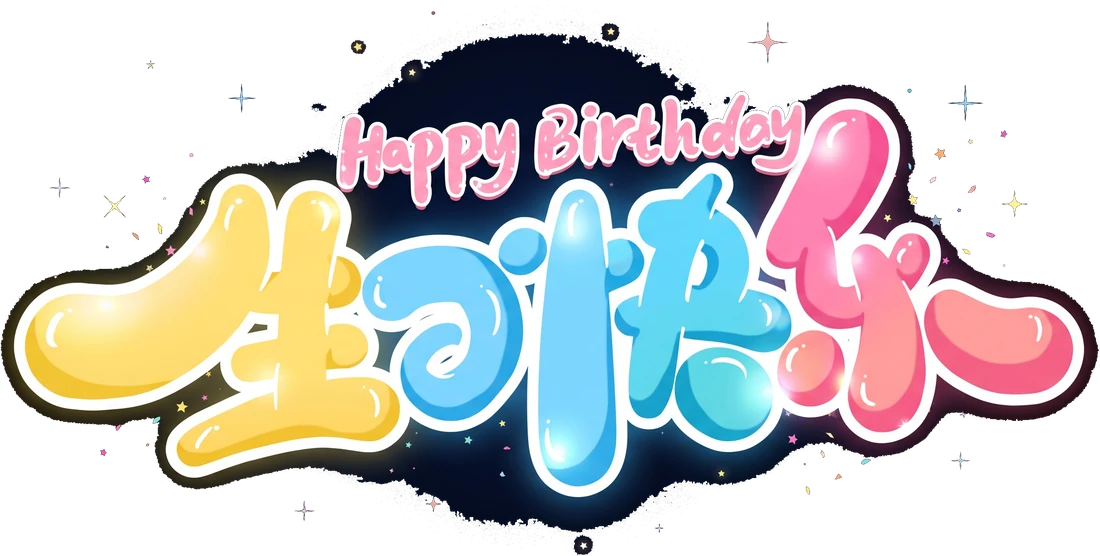
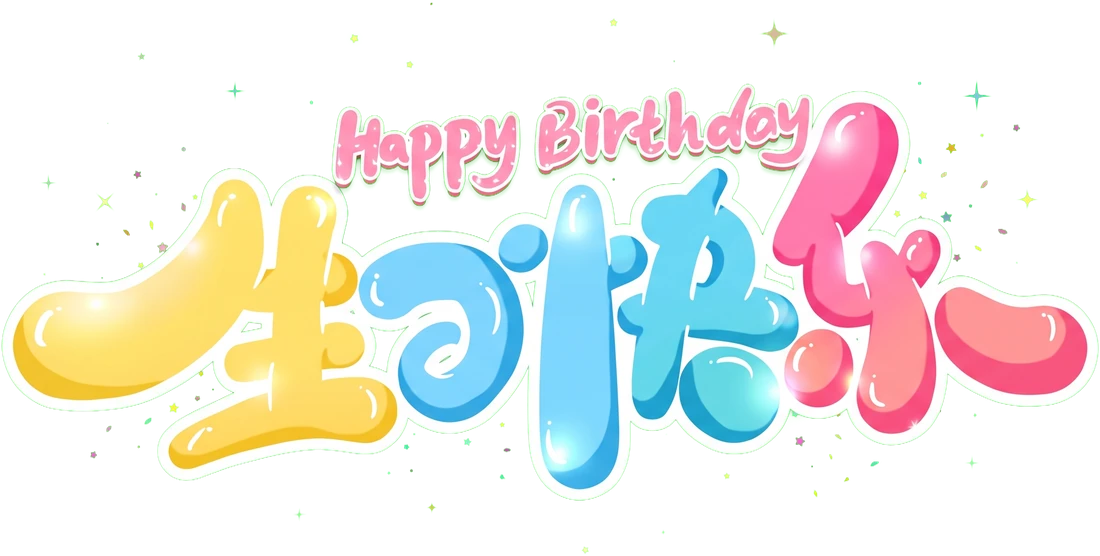
标题替换为 hb2 手绘字图，尺寸与位置保持不变

diff --git a/index.html b/index.html
@@ -427,7 +427,7 @@
           <header class="finale-head">
             <h2 class="finale-title finale-title--art">
               <img
-                src="assets/photos/hbfont-title.webp"
+                src="assets/photos/hbfont-title.webp?v=2"
                 alt="生日快乐"
                 width="1100"
                 height="556"

diff --git a/README.md b/README.md
@@ -25,7 +25,7 @@ cd "C:/Users/Administrator/Desktop/hb" && python -m http.server 5173
 - 星屑与祝词一起缓慢公转；轻触烛火 → 白烟、星屑烟花 → 贺卡浮现，再轻触蛋糕可重新点亮。
 - 手机竖屏下蛋糕约占屏宽 2/3，提示语会自动落在托盘下方；贺卡整体上移，避开底部水印。
 - 贺卡右下角是一枚手绘小头像落款（`assets/photos/signature-avatar.png`，由根目录的原始 PNG 裁切而来）。想换图直接替换这个文件；如果浏览器还显示旧图，把 `index.html` 里的 `?v=2` 改成 `?v=3` 即可强制刷新。
-- 顶部标题是一张手绘字图（`assets/photos/hbfont-title.webp`，由根目录的 `hbfont.png` 裁边压缩而来），不再使用文字标题；想换图直接替换这个 webp 即可。
+- 顶部标题是一张手绘字图（`assets/photos/hbfont-title.webp`，由根目录的 `hb2.png` 裁边压缩而来），不再使用文字标题；想换图直接替换这个 webp 即可。
 - 正文字体 Noto Serif SC、英文字体 Cormorant Garamond 都做了子集化放在 `assets/fonts/`，页面不再请求 Google Fonts，国内可正常加载。
 
 ### 五幕版（story.html · 保留）
